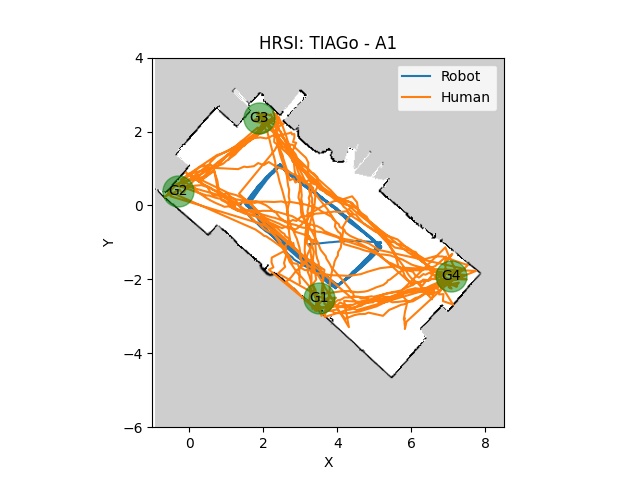
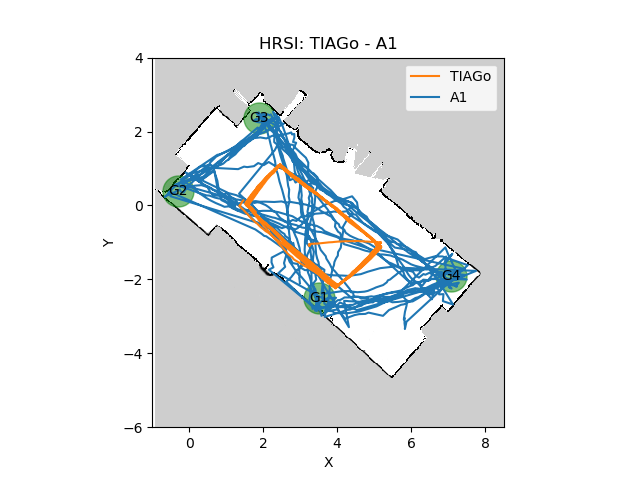
new README image

diff --git a/trajectory_plot/trajPlot.py b/trajectory_plot/trajPlot.py
@@ -12,8 +12,8 @@ AGENT = 'A1'
 TRAJ_CSV = os.getcwd() + '/trajectory_plot/trajectories/' + AGENT + '_traj.csv'
 SEL_ID = '1000_' # NOTE: set '' if not needed
 GOALS_PATH = os.getcwd() + '/trajectory_plot/goals.json'
-HUMAN_COLOR = 'tab:orange'
-ROBOT_COLOR = 'tab:blue'
+HUMAN_COLOR = 'tab:blue'
+ROBOT_COLOR = 'tab:orange'
 
 with open(GOALS_PATH, 'r') as json_file:
     GOALS = json.load(json_file)
@@ -38,8 +38,8 @@ plt.imshow(map_image, extent=(origin_x, origin_x + len(map_image[0]) * resolutio
 trajectory_data = pd.read_csv(TRAJ_CSV)
 
 # Step 4: Plot Trajectories
-plt.plot(trajectory_data['r_x'].values, trajectory_data['r_y'].values, color=ROBOT_COLOR, label=f'Robot')
-plt.plot(trajectory_data['h_' + SEL_ID + 'x'].values, trajectory_data['h_' + SEL_ID + 'y'].values, color=HUMAN_COLOR, label=f'Human')
+plt.plot(trajectory_data['r_x'].values, trajectory_data['r_y'].values, color=ROBOT_COLOR, label=f'TIAGo', zorder=3)
+plt.plot(trajectory_data['h_' + SEL_ID + 'x'].values, trajectory_data['h_' + SEL_ID + 'y'].values, color=HUMAN_COLOR, label=AGENT)
 
 # Step 5: Plot goals
 for gid, g in GOALS.items():

diff --git a/trajectory_plot/trajAnim.py b/trajectory_plot/trajAnim.py
@@ -38,7 +38,7 @@ origin_x, origin_y = map_info['origin'][:2]
 # Plot the map image
 fig, ax = plt.subplots()
 ax.imshow(map_image, extent=(origin_x, origin_x + len(map_image[0]) * resolution, 
-                               origin_y, origin_y + len(map_image) * resolution),
+                             origin_y, origin_y + len(map_image) * resolution),
            cmap='gray')
 
 # Load trajectory data
